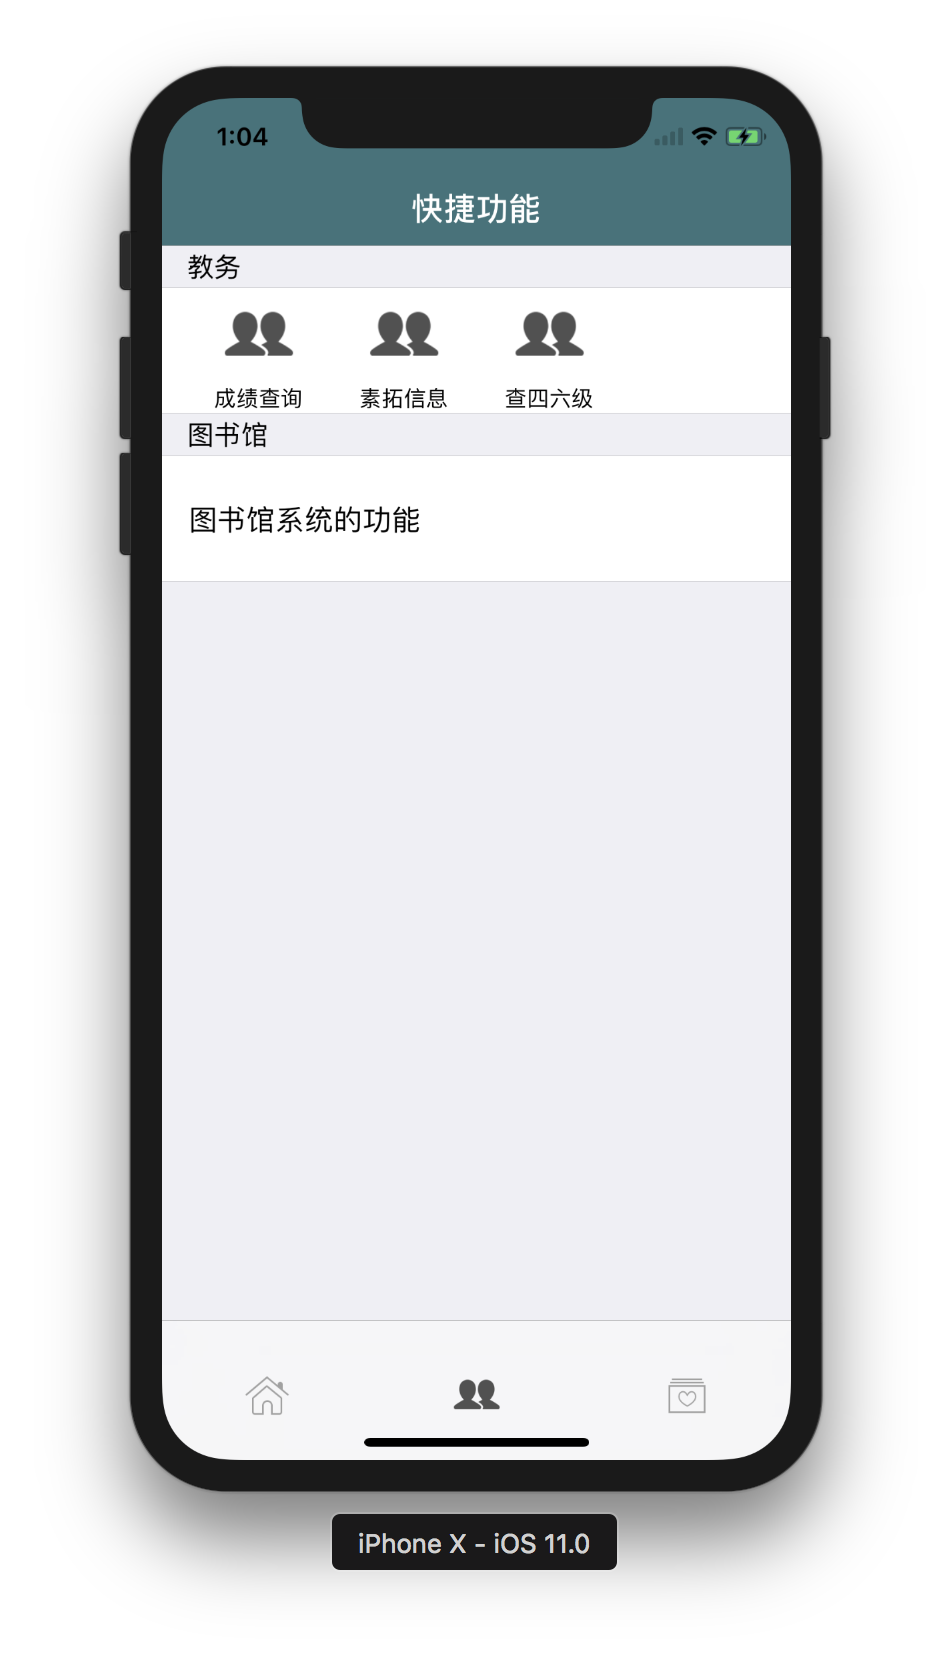
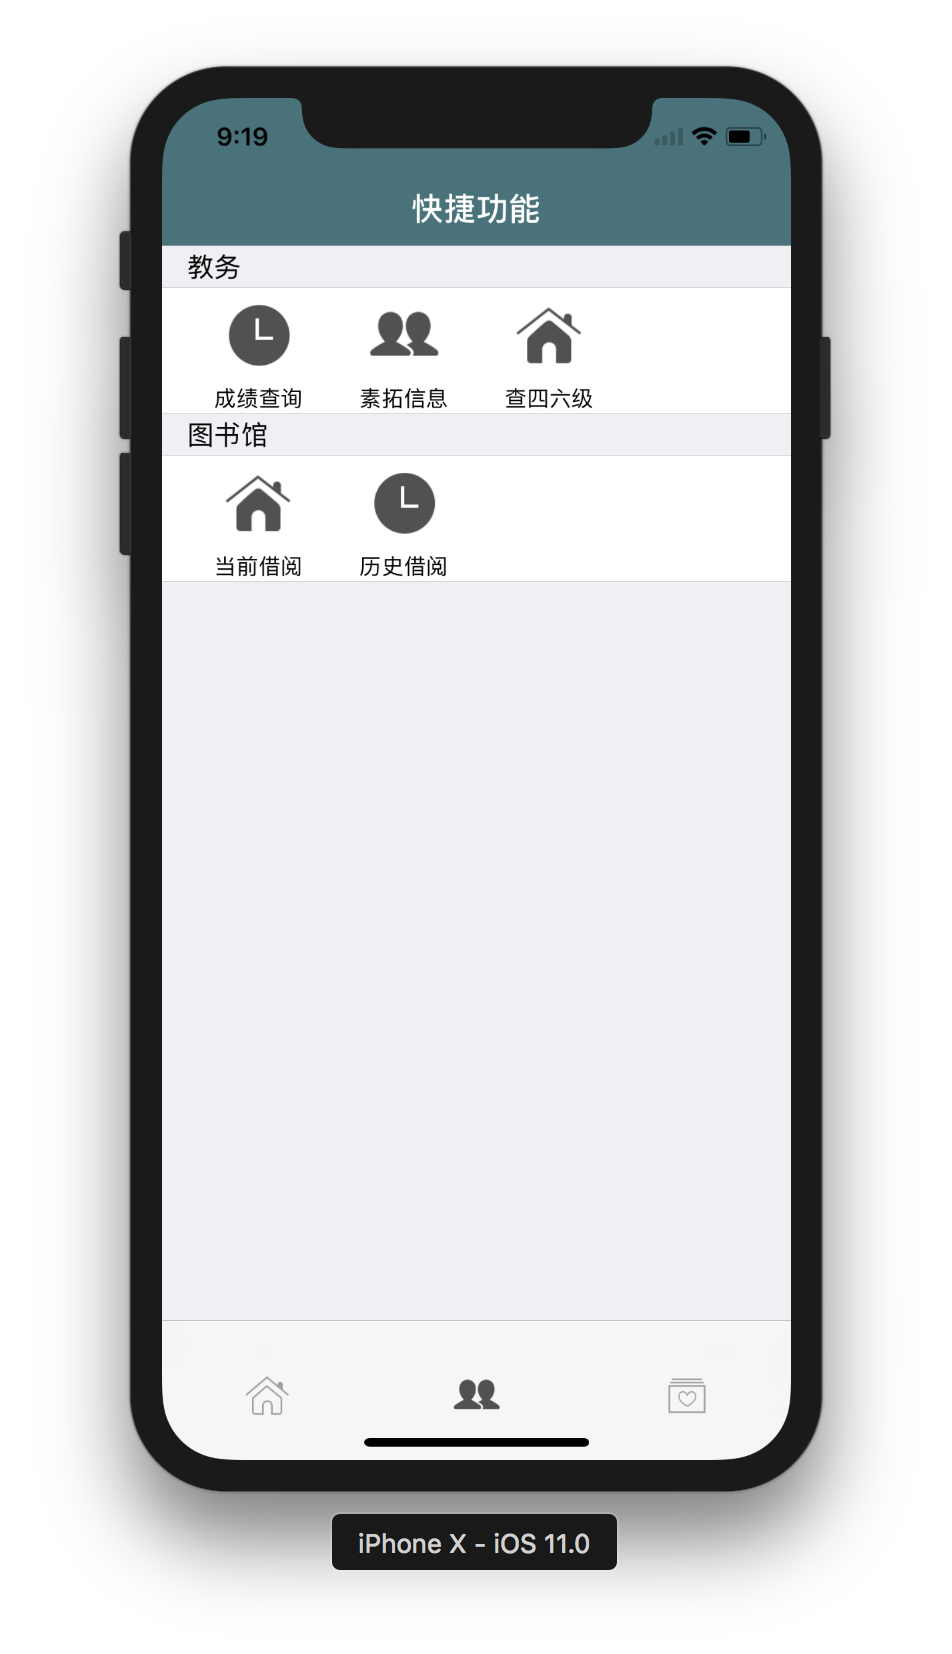
1.2.9

diff --git a/KWGdufe/Classes/Functions/Control/KWLibraryViewCell.m b/KWGdufe/Classes/Functions/Control/KWLibraryViewCell.m
@@ -1,25 +1,22 @@
 //
-//  KWEducationalViewCell.m
+//  KWLibraryViewCell.m
 //  KWGdufe
 //
-//  Created by korwin on 2017/10/26.
+//  Created by korwin on 2017/10/30.
 //  Copyright © 2017年 korwin. All rights reserved.
 //
 
-#import "KWEducationalViewCell.h"
+#import "KWLibraryViewCell.h"
 #import "KWFunctionsCell.h"
 #import <QuartzCore/QuartzCore.h>
-#import "KWGradeCell.h"
-#import "KWSztzTableView.h"
-#import "KWGradeView.h"
 
 #define ID @"cell"
 
-@interface KWEducationalViewCell()<UICollectionViewDataSource,UICollectionViewDelegate>
+@interface KWLibraryViewCell()<UICollectionViewDataSource,UICollectionViewDelegate>
 
 @end
 
-@implementation KWEducationalViewCell
+@implementation KWLibraryViewCell
 
 - (instancetype)initWithStyle:(UITableViewCellStyle)style reuseIdentifier:(NSString *)reuseIdentifier {
     if (self = [super initWithStyle:style reuseIdentifier:reuseIdentifier]) {
@@ -46,7 +43,7 @@
 
 #pragma mark - UICollectViewDataSource
 - (NSInteger)collectionView:(UICollectionView *)collectionView numberOfItemsInSection:(NSInteger)section {
-    return 3;
+    return 2;
 }
 
 - (UICollectionViewCell *)collectionView:(UICollectionView *)collectionView cellForItemAtIndexPath:(NSIndexPath *)indexPath {
@@ -54,28 +51,25 @@
     [collectionView registerNib:nib forCellWithReuseIdentifier:ID];
     KWFunctionsCell *cell = [collectionView dequeueReusableCellWithReuseIdentifier:ID forIndexPath:indexPath];
     if (indexPath.row == 0) {
-        cell.name = @"成绩查询";
-        cell.imageName = @"tabBar_new_click_icon";
-    } else if (indexPath.row == 1) {
-        cell.name = @"素拓信息";
-        cell.imageName = @"tabBar_friendTrends_click_icon";
-    } else {
-        cell.name = @"查四六级";
+        cell.name = @"当前借阅";
         cell.imageName = @"tabBar_essence_click_icon";
+    } else if (indexPath.row == 1) {
+        cell.name = @"历史借阅";
+        cell.imageName = @"tabBar_new_click_icon";
     }
     cell.backgroundColor = [UIColor clearColor];
     return cell;
 }
 
 #pragma mark - UICollectionDelegate
-- (void)collectionView:(UICollectionView *)collectionView didSelectItemAtIndexPath:(NSIndexPath *)indexPath {
-    if (indexPath.row == 0) {
-        KWGradeView *gradeVc = [[KWGradeView alloc]init];
-        [_delegate pushVc:gradeVc];
-    } else if (indexPath.row == 1) {
-        KWSztzTableView *sztzVc = [[KWSztzTableView alloc]init];
-        [_delegate pushVc:sztzVc];
-    }
-}
+//- (void)collectionView:(UICollectionView *)collectionView didSelectItemAtIndexPath:(NSIndexPath *)indexPath {
+////    if (indexPath.row == 0) {
+////        KWGradeView *gradeVc = [[KWGradeView alloc]init];
+////        [_delegate pushVc:gradeVc];
+////    } else if (indexPath.row == 1) {
+////        KWSztzTableView *sztzVc = [[KWSztzTableView alloc]init];
+////        [_delegate pushVc:sztzVc];
+////    }
+//}
 
 @end

diff --git a/KWGdufe/Classes/Functions/Control/KWFunctionsViewController.m b/KWGdufe/Classes/Functions/Control/KWFunctionsViewController.m
@@ -8,8 +8,9 @@
 
 #import "KWFunctionsViewController.h"
 #import "KWEducationalViewCell.h"
+#import "KWLibraryViewCell.h"
 
-@interface KWFunctionsViewController ()<KWPushDelegate>
+@interface KWFunctionsViewController ()<KWPushDelegate,KWLibraryPushDelegate>
 
 @end
 
@@ -59,7 +60,7 @@
         cell.selectionStyle = UITableViewCellSelectionStyleNone;//不可选择
         return cell;
     } else {
-        KWEducationalViewCell *cell = [[KWEducationalViewCell alloc]init];
+        KWLibraryViewCell *cell = [[KWLibraryViewCell alloc]init];
 //        cell.textLabel.text = @"教务系统的功能;
         cell.delegate = self;
         cell.selectionStyle = UITableViewCellSelectionStyleNone;//不可选择

diff --git a/KWGdufe/Classes/Functions/Control/KWGradeView.m b/KWGdufe/Classes/Functions/Control/KWGradeView.m
@@ -27,7 +27,7 @@
     [super viewDidLoad];
     self.navigationItem.title = @"我的成绩";
     NSString *account = [wrapper myObjectForKey:(id)kSecAttrAccount];
-    NSArray *gradeDict = [Utils getCache:account andID:@"SztzModel"];
+    NSArray *gradeDict = [Utils getCache:account andID:@"GradeModel"];
     if (gradeDict) {
         NSArray *gradeModel = [KWGradeModel mj_objectArrayWithKeyValuesArray:gradeDict];
         NSMutableArray *gradeDictTimes = [[NSMutableArray alloc]init];

diff --git a/KWGdufe/Classes/Functions/Control/KWLibraryViewCell.h b/KWGdufe/Classes/Functions/Control/KWLibraryViewCell.h
@@ -1,0 +1,20 @@
+//
+//  KWLibraryViewCell.h
+//  KWGdufe
+//
+//  Created by korwin on 2017/10/30.
+//  Copyright © 2017年 korwin. All rights reserved.
+//
+
+#import <UIKit/UIKit.h>
+
+/*代理方式让主NavigationController跳转*/
+@protocol KWLibraryPushDelegate <NSObject>
+- (void)pushVc:(id)gradeVc;
+@end
+
+@interface KWLibraryViewCell : UITableViewCell
+
+@property (assign, nonatomic) id<KWLibraryPushDelegate> delegate;//这个是代理属性
+
+@end

diff --git a/KWGdufe/Classes/Functions/Control/KWSztzTableView.m b/KWGdufe/Classes/Functions/Control/KWSztzTableView.m
@@ -27,7 +27,7 @@
     [super viewDidLoad];
     self.navigationItem.title = @"素拓信息";
     NSString *account = [wrapper myObjectForKey:(id)kSecAttrAccount];
-    NSArray *sztzDict = [Utils getCache:account andID:@"GradeModel"];
+    NSArray *sztzDict = [Utils getCache:account andID:@"SztzModel"];
     if (sztzDict) {
         NSArray *sztzArray = [KWSztzModel mj_objectArrayWithKeyValuesArray:sztzDict];
         _sztzModel = sztzArray;
